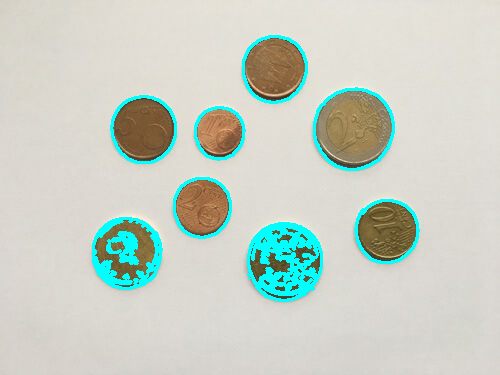
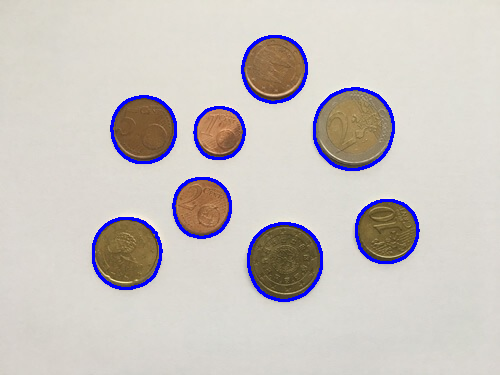
parameter image

diff --git a/Formas/formas.py b/Formas/formas.py
@@ -10,7 +10,7 @@ cv2.imwrite("images/Gauss.png", gauss)
 thresh = 50 
 		
 # Detectar los bordes con un umbral min = 50 y max = 150 
-canny_output = cv2.Canny(gray, thresh, thresh * 3)
+canny_output = cv2.Canny(gauss, thresh, thresh * 3)
 
 # Mostrar los bordes detectados con Canny
 cv2.imwrite("images/Bordes.png", canny_output)
